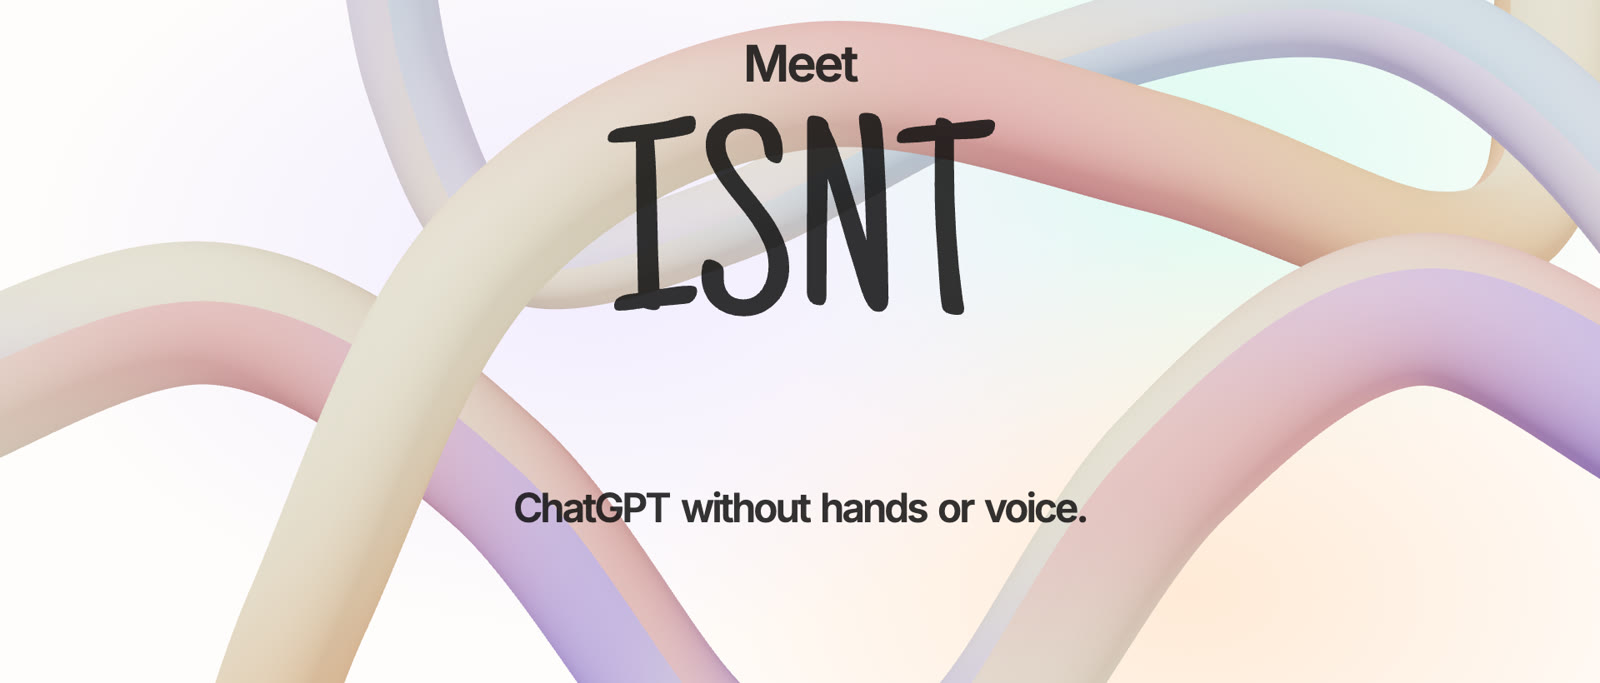
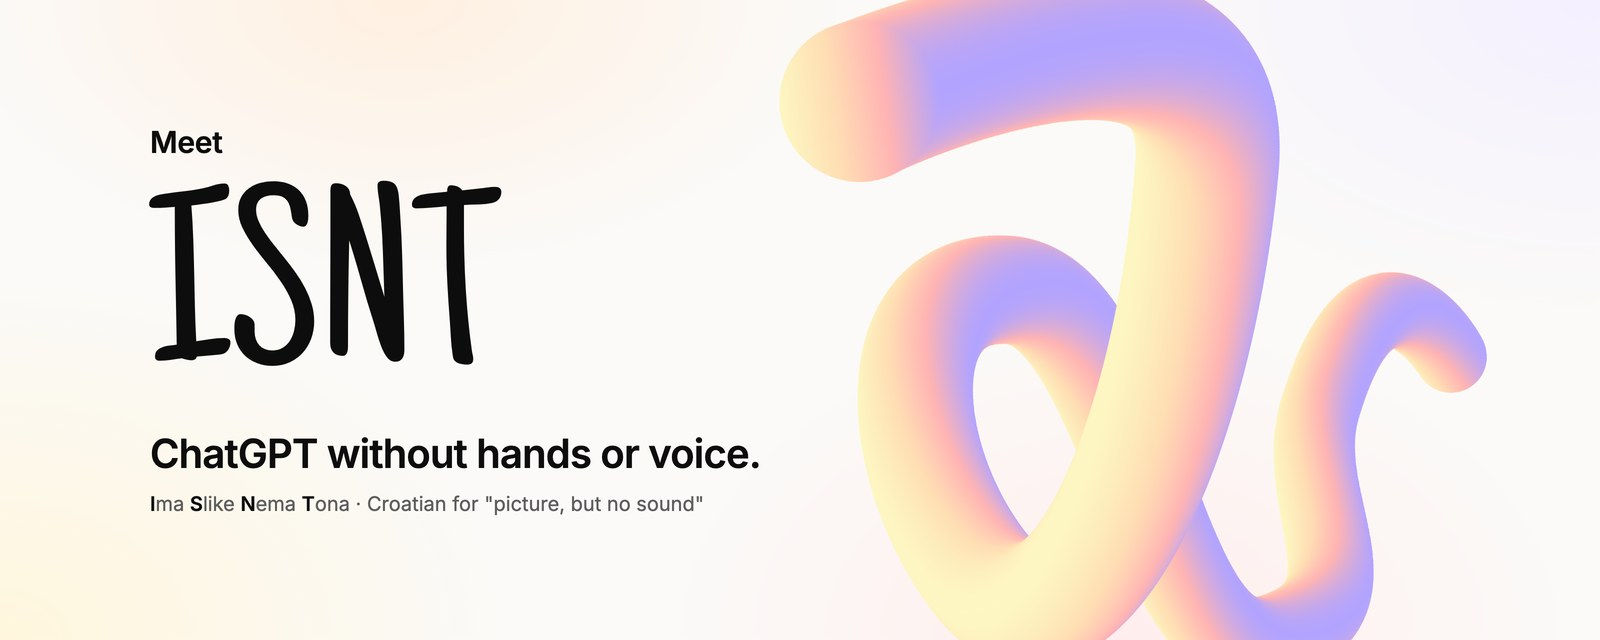
Rewrite README with new screenshots, branding and launch animation
New banner built on the brand tube artwork, fresh screenshots of every screen
(captured at 1440x900 in Offline mode) framed in the app's pastels, the
launch screen as a GIF in a new "The look" section, and links to the live
app, demo video, project deck and Figma file. Notes that ISNT opens in light
mode.

diff --git a/README.md b/README.md
@@ -1,10 +1,17 @@
 <p align="center">
-  <img src="docs/images/banner.jpg" alt="ISNT: ChatGPT without hands or voice" width="100%">
+  <img src="docs/images/banner.jpg" alt="Meet ISNT: ChatGPT without hands or voice" width="100%">
 </p>
 
 <p align="center">
   <b>A chat app you use with your head and face, not your hands or voice.</b><br>
   <sub>ISNT stands for <i>Ima Slike Nema Tona</i>, Croatian for "picture, but no sound".</sub>
+</p>
+
+<p align="center">
+  <a href="https://ima-slike-nema-tona.vercel.app"><b>Try the app</b></a> ·
+  <a href="https://drive.google.com/file/d/1eP4rHAvrxqSQlSEpNhEpwSYGSFeecTpL/view?usp=sharing"><b>Watch the demo</b></a> ·
+  <a href="https://drive.google.com/file/d/12w3LYaAM4wuwUsN8UUkILTLVuoHm4P--/view?usp=sharing"><b>Read the project deck</b></a> ·
+  <a href="https://www.figma.com/design/3siExxQ7FZAUb53Gbpm9j5/ISNT?node-id=0-1"><b>See it in Figma</b></a>
 </p>
 
 ---
@@ -48,7 +55,7 @@ every press takes three steps:
     <td width="50%"><img src="docs/images/predictions.jpg" alt="Word and phrase predictions"></td>
   </tr>
   <tr>
-    <td><b>Start with a word.</b> Ten common first words, like <i>What</i>, <i>How</i> or <i>Explain</i>.</td>
+    <td><b>Start with a word.</b> Ten common first words, like <i>What</i>, <i>How</i> or <i>Create</i>.</td>
     <td><b>Keep picking.</b> Your text moves to the middle. Phrases appear on the sides, single words in the corners,
     and they refresh after every pick.</td>
   </tr>
@@ -91,7 +98,8 @@ Every person moves differently, so the app adapts to the person instead of the o
   </tr>
 </table>
 
-Chats are saved in **Recents** and can be grouped into projects, and the app has a **dark mode**.
+Chats are saved in **Recents** and can be grouped into projects. ISNT opens in **light mode**, and **dark mode** is
+one switch away.
 
 <table>
   <tr>
@@ -100,6 +108,28 @@ Chats are saved in **Recents** and can be grouped into projects, and the app has
   </tr>
 </table>
 
+## The look
+
+<table>
+  <tr>
+    <td width="45%"><img src="docs/images/launch.gif" alt="The ISNT launch screen: the brand tube draws itself on while ISNT spells out Ima Slike Nema Tona"></td>
+    <td>
+      <b>Every time ISNT opens</b>, the brand tube draws itself on in one stroke. Then ISNT bounces in letter by
+      letter and spells out what it stands for: <b>I</b>ma <b>S</b>like <b>N</b>ema <b>T</b>ona, "picture, but no
+      sound". It holds still long enough to read, then fades into the app.<br><br>
+      <b>The tube</b> comes from original Illustrator artwork: a blend of soft circles in four pastels.<br><br>
+      <b>The wordmark</b> is hand-drawn, set in Just Another Hand. Everything else stays quiet and neutral so the
+      controls are easy to see.
+    </td>
+  </tr>
+</table>
+
+| | Butter | Peach | Rose | Lavender |
+| --- | --- | --- | --- | --- |
+| **Brand tube** | `#fdf7c3` | `#ffdeb4` | `#ffb4b4` | `#b2a4ff` |
+
+Buttons in the app use a wider, softer pastel rainbow, so each position keeps its own colour.
+
 ## Privacy
 
 The camera image **never leaves your browser**. Face tracking runs locally on your computer. Only the text of your
@@ -107,7 +137,9 @@ message is sent to the AI, and with **Offline mode** on, nothing is sent at all.
 
 ## Try it yourself
 
-You need [Node.js](https://nodejs.org) and a computer with a webcam.
+The quickest way is the live version: **[ima-slike-nema-tona.vercel.app](https://ima-slike-nema-tona.vercel.app)**.
+
+To run it on your own computer, you need [Node.js](https://nodejs.org) and a webcam.
 
 ```bash
 git clone https://github.com/nora-yapper/ChatGPT-no-Hands.git
@@ -131,9 +163,9 @@ any button with the mouse to try things out without the camera.
 
 ## Project status
 
-ISNT is a **student design prototype** (Interactive IV, 2026). It has not yet been tested with people who have
-motor or speech disabilities. That is the planned next step, and nothing here should be taken as proof that it
-works for them.
+ISNT is a **student design prototype** (Interactive IV, RIT Croatia, 2026). It has not yet been tested with people
+who have motor or speech disabilities. That is the planned next step, and nothing here should be taken as proof
+that it works for them.
 
 The repository also contains **Input Lab** (at `/lab`), the testing ground used while building ISNT. It shows every
 measurement between the camera and a button press, so gestures and thresholds can be compared.
@@ -141,7 +173,9 @@ measurement between the camera and a button press, so gestures and thresholds ca
 ## For developers
 
 How the tracking pipeline, gesture detectors, layout grid and AI predictions work is described in
-**[docs/TECHNICAL.md](docs/TECHNICAL.md)**.
+**[docs/TECHNICAL.md](docs/TECHNICAL.md)**. The launch screen lives in
+`src/components/ChatNoHands/LaunchScreen.tsx`. Its tube path (`launchTube.ts`) is generated from the Illustrator
+artwork, and it respects the system's reduce-motion setting.
 
 ```bash
 npm test        # unit tests
@@ -181,4 +215,4 @@ The full reference list of the project documentation is in the presentation (sec
 
 ---
 
-<p align="center"><sub>Designed and built by Nora Miskulin · 2026</sub></p>
+<p align="center"><sub>Designed and built by Nora Miskulin · RIT Croatia · 2026</sub></p>
